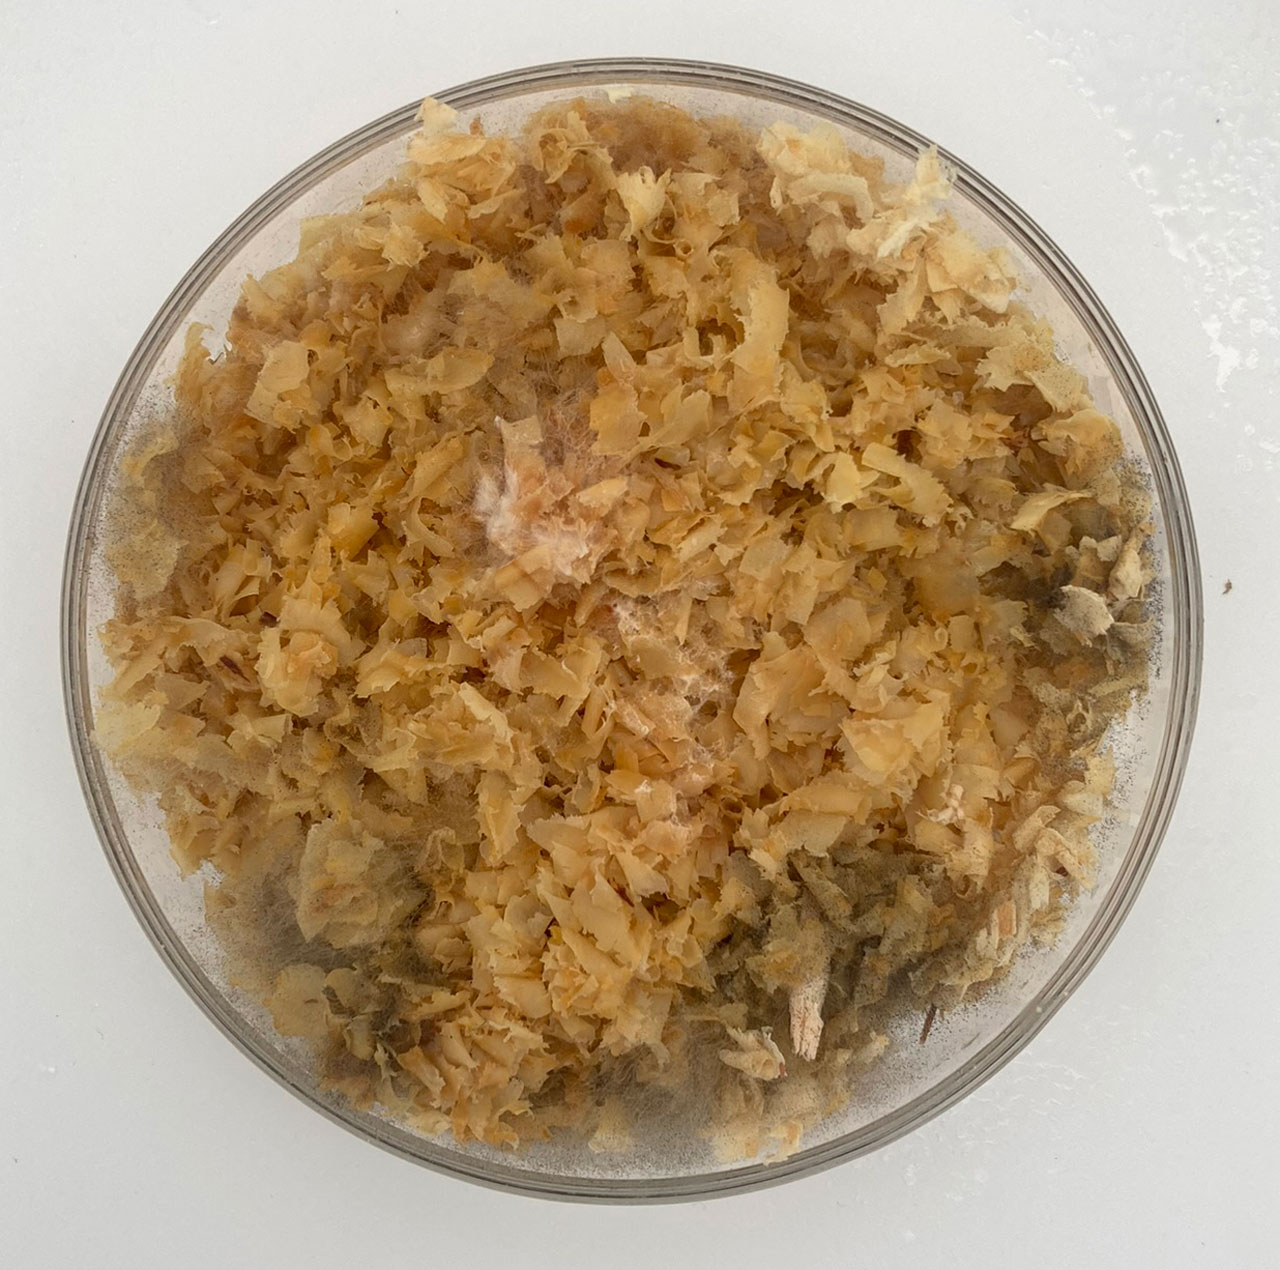
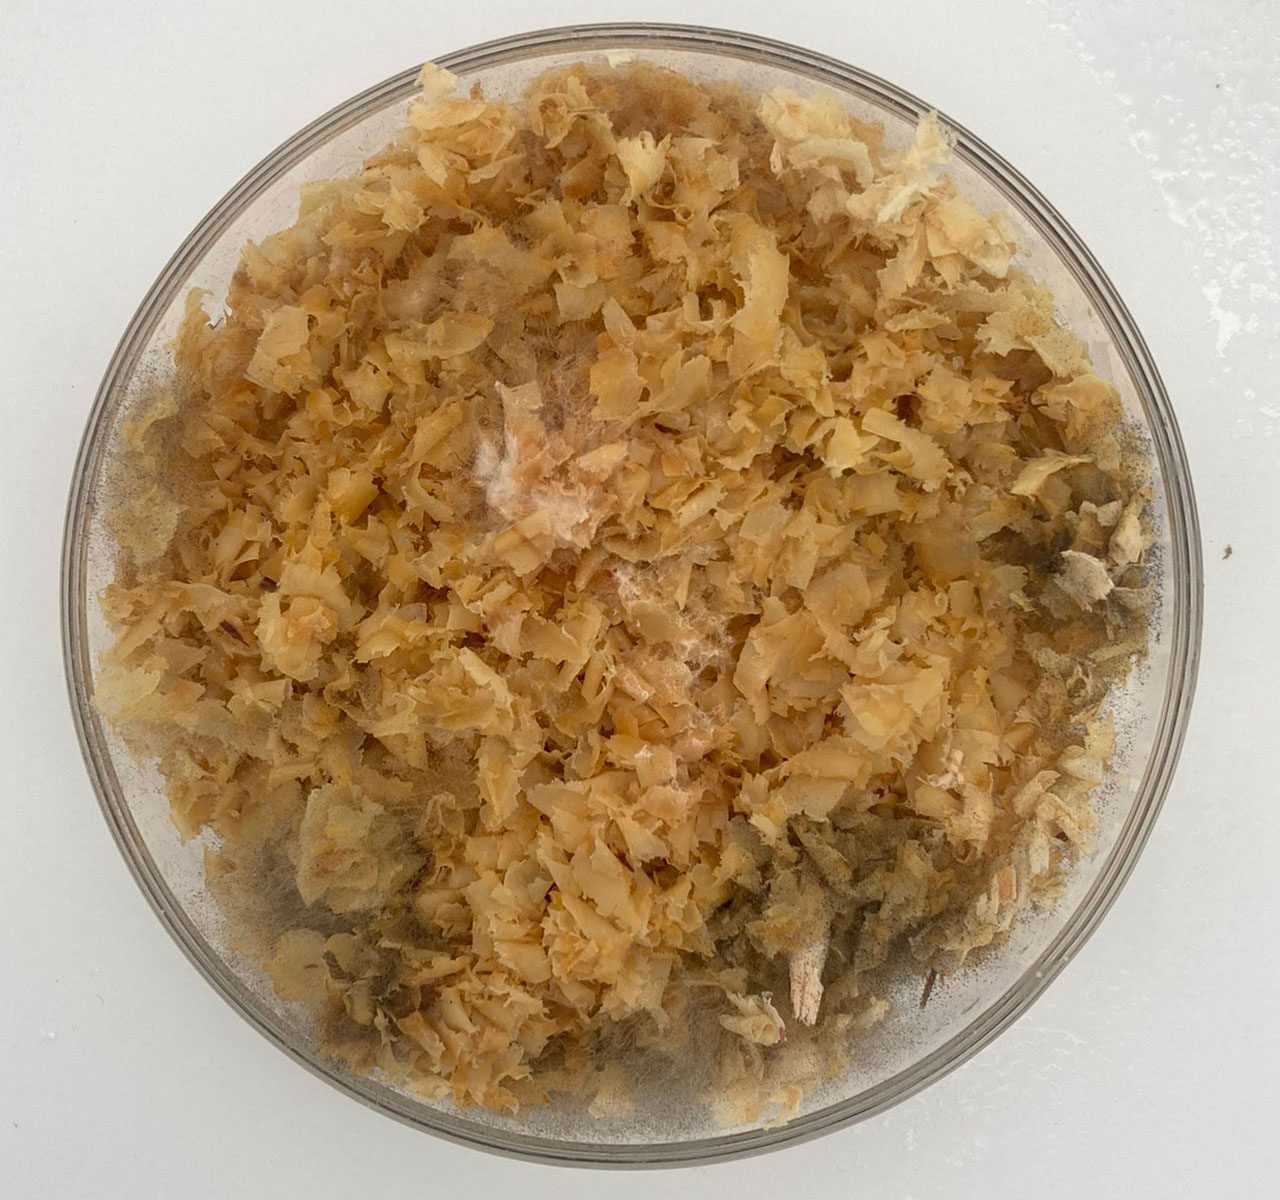
pics in cols

Changed region(s): [[0.0312, 0.0, 0.9375, 0.4933], [0.0625, 0.5242, 0.9375, 0.9867]]

diff --git a/src/content/projects/dirty-mycelium.md b/src/content/projects/dirty-mycelium.md
@@ -7,25 +7,13 @@ date: 2024-02-28
 ---
 This project confronts the controlled environmental conditions required to cultivate biological mycelium-based composites by developing “dirty” soil-based substrates for pleurotus ostreatus mycelium strands.
 
-![](/data/images/dirty-mycelium-1.jpg)
-
-![](/data/images/dirty-mycelium-2.jpg)
-
-![](/data/images/dirty-mycelium-3.jpg)
-
-![](/data/images/dirty-mycelium-4.jpg)
-
-![](/data/images/dirty-mycelium-5.jpg)
-
-![](/data/images/dirty-mycelium-6.jpg)
-
-![](/data/images/dirty-mycelium-7.jpg)
-
-![](/data/images/dirty-mycelium-8.jpg)
-
-![](/data/images/dirty-mycelium-9.jpg)
-
-![](/data/images/dirty-mycelium-10.jpg)
+|   |   |
+|---|---|
+|![](/data/images/dirty-mycelium-1.jpg)|![](/data/images/dirty-mycelium-2.jpg)|
+|![](/data/images/dirty-mycelium-3.jpg)|![](/data/images/dirty-mycelium-4.jpg)|
+|![](/data/images/dirty-mycelium-5.jpg)|![](/data/images/dirty-mycelium-6.jpg)|
+|![](/data/images/dirty-mycelium-7.jpg)|![](/data/images/dirty-mycelium-8.jpg)|
+|![](/data/images/dirty-mycelium-9.jpg)|![](/data/images/dirty-mycelium-10.jpg)|
 
 Embarking on one of nature’s architects: mycelium, this project includes a tile system fabricating with molding techniques. The main goal is to investigate thresholds and the potentials of growing mycelium on light fiber-clay mixture designs within “dirty” settings.
 
